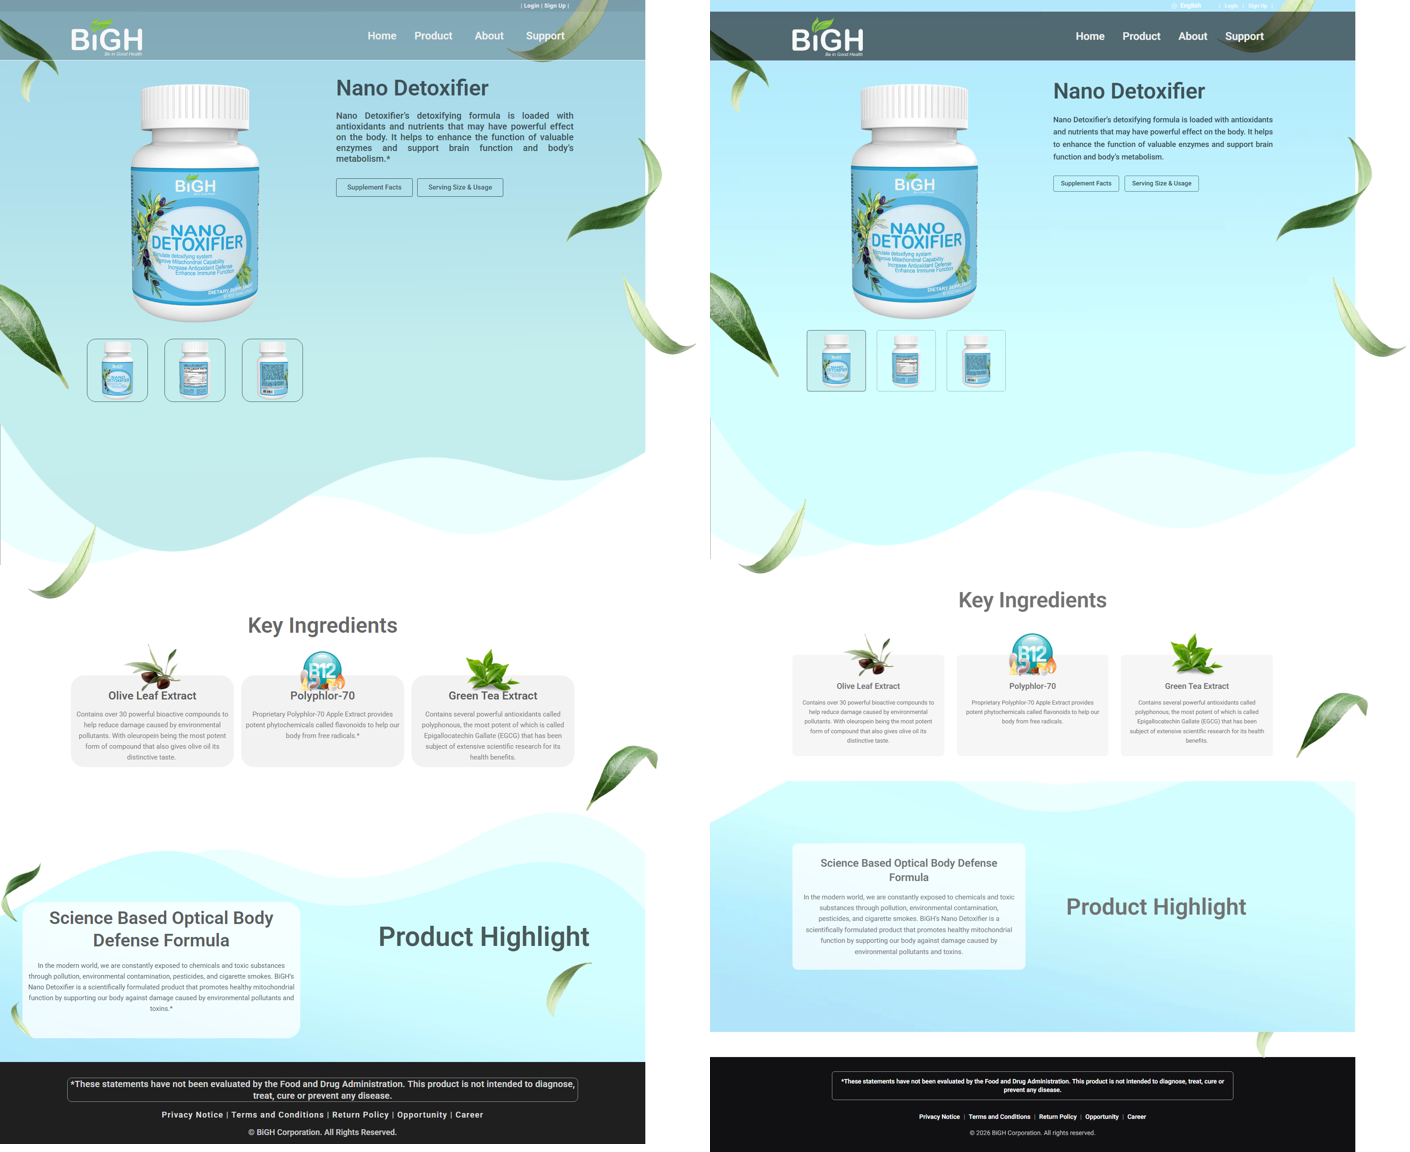
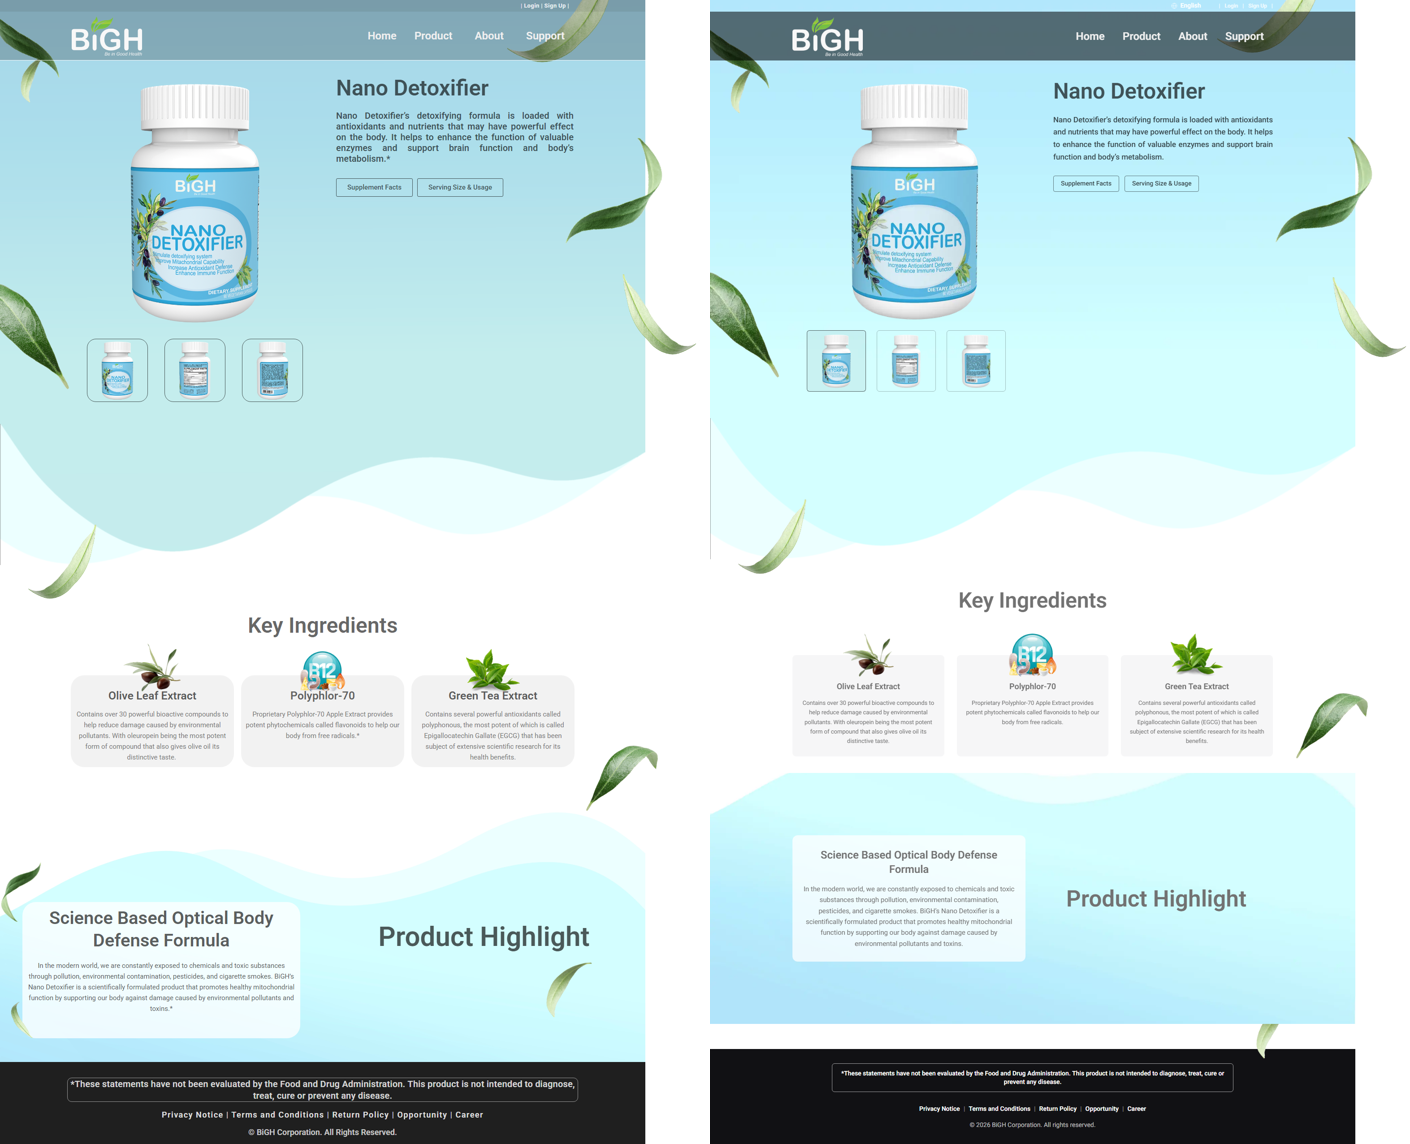
feat(clone): product pages pixel-exact (0-1px), exact nav alphas, glass dropdown
- per-product height calibration: all 10 product pages now within 0-1px of
  the original (>=99.9%)
- navbar alphas set to the measured original values: microbar fully
  transparent, main row rgba(0,0,0,0.54)
- dropdown redesigned (Mo's enhancement ask): glass panel w/ rise-in
  animation, two-column Product menu with bottle thumbnails, green accents

Claude-Session: https://claude.ai/code/session_01RzRMziC5GY7AzV6VWdUSyy

diff --git a/src/components/clone/header.tsx b/src/components/clone/header.tsx
@@ -7,21 +7,33 @@ import { useEffect, useRef, useState } from "react";
 import { Link, usePathname } from "@/i18n/navigation";
 import type { Locale } from "@/i18n/routing";
 import { ABOUT_SLUGS, PRODUCT_SLUGS, productName } from "@/data/products";
+import productLayout from "@/data/product-layout.json";
 
 import { LangSwitcher } from "./lang-switcher";
 
 const LOGIN_URL = "https://aeg.imatrixoffice.com";
 
+const THUMBS = Object.fromEntries(
+  Object.entries(productLayout as Record<string, { gallery: string[] }>).map(([slug, v]) => [
+    slug,
+    v.gallery[0],
+  ]),
+);
+
 // Measured from the original (1440px): header floats transparently over the
 // page — 26px microbar + 109px main row; logo 157x88 at the content edge;
 // nav items Roboto 600 24px with 13x20 padding; FOUR top-level items
 // (Science lives in the About dropdown). Mobile: 185px row w/ 292px logo.
+// The dropdown itself is deliberately nicer than the original: glassy panel,
+// soft rise-in animation, bottle thumbnails in the Product menu.
 function Dropdown({
   label,
   items,
+  wide = false,
 }: {
   label: string;
-  items: { href: string; label: string }[];
+  items: { href: string; label: string; thumb?: string }[];
+  wide?: boolean;
 }) {
   const [open, setOpen] = useState(false);
   const ref = useRef<HTMLDivElement>(null);
@@ -44,29 +56,53 @@ function Dropdown({
     >
       <button
         type="button"
-        className="flex items-center gap-1 rounded-[5px] px-5 py-[13px] text-2xl font-semibold leading-none text-[#efefef] transition-colors hover:bg-green hover:text-white"
+        className={`flex items-center gap-1 rounded-[5px] px-5 py-[13px] text-2xl font-semibold leading-none transition-colors ${
+          open ? "bg-green text-white" : "text-[#efefef] hover:bg-green hover:text-white"
+        }`}
         aria-expanded={open}
         onClick={() => setOpen((v) => !v)}
       >
         {label}
       </button>
-      {open && (
-        <div className="absolute left-1/2 top-full z-50 w-72 -translate-x-1/2 pt-1">
-          <ul className="rounded-md border border-white/10 bg-[#1d1d25]/95 p-2 shadow-[0_16px_40px_rgba(0,0,0,0.4)] backdrop-blur">
-            {items.map((item) => (
-              <li key={item.href}>
-                <Link
-                  href={item.href}
-                  className="block rounded px-3 py-2 text-lg text-white/85 hover:bg-green hover:text-white"
-                  onClick={() => setOpen(false)}
-                >
+      <div
+        className={`absolute left-1/2 top-full z-50 -translate-x-1/2 pt-2 transition-all duration-200 ease-out ${
+          open
+            ? "visible translate-y-0 opacity-100"
+            : "invisible -translate-y-1.5 opacity-0"
+        } ${wide ? "w-[34rem]" : "w-72"}`}
+      >
+        <ul
+          className={`overflow-hidden rounded-xl border border-white/10 bg-[#15151c]/90 p-2.5 shadow-[0_24px_60px_rgba(0,0,0,0.55)] backdrop-blur-xl ${
+            wide ? "grid grid-cols-2 gap-x-2" : ""
+          }`}
+        >
+          {items.map((item) => (
+            <li key={item.href}>
+              <Link
+                href={item.href}
+                className="group/item flex items-center gap-3 rounded-lg px-3 py-2 text-white/85 transition-colors hover:bg-white/[0.07] hover:text-green"
+                onClick={() => setOpen(false)}
+                tabIndex={open ? 0 : -1}
+              >
+                {item.thumb && (
+                  <span className="flex h-11 w-11 shrink-0 items-center justify-center rounded-md bg-white/90 p-1">
+                    <Image
+                      src={item.thumb}
+                      alt=""
+                      width={40}
+                      height={42}
+                      className="h-full w-auto object-contain transition-transform duration-300 group-hover/item:scale-110"
+                    />
+                  </span>
+                )}
+                <span className={item.thumb ? "text-base font-medium leading-tight" : "text-lg"}>
                   {item.label}
-                </Link>
-              </li>
-            ))}
-          </ul>
-        </div>
-      )}
+                </span>
+              </Link>
+            </li>
+          ))}
+        </ul>
+      </div>
     </div>
   );
 }
@@ -80,6 +116,7 @@ export function SiteHeader() {
   const productItems = PRODUCT_SLUGS.map((slug) => ({
     href: `/${slug}`,
     label: productName(slug, locale),
+    thumb: THUMBS[slug],
   }));
   const aboutLabels: Record<(typeof ABOUT_SLUGS)[number], string> = {
     about: t("aboutBigh"),
@@ -112,7 +149,7 @@ export function SiteHeader() {
       </div>
 
       {/* main row: 109px desktop / 185px mobile, translucent black */}
-      <div className="bg-black/55">
+      <div className="bg-[rgba(0,0,0,0.54)]">
         <div className="mx-auto flex max-w-[70rem] items-center justify-between gap-4 px-2.5 py-[10px] sm:px-6 lg:h-[109px] lg:py-0">
           <Link href="/" className="flex shrink-0 items-center" aria-label="BiGH — Home">
             <Image
@@ -134,7 +171,7 @@ export function SiteHeader() {
             >
               {t("home")}
             </Link>
-            <Dropdown label={t("products")} items={productItems} />
+            <Dropdown label={t("products")} items={productItems} wide />
             <Dropdown label={t("about")} items={aboutItems} />
             <Link
               href="/support"

diff --git a/src/app/[locale]/[slug]/page.tsx b/src/app/[locale]/[slug]/page.tsx
@@ -55,6 +55,22 @@ function decorBase(p: string): string {
   return p.split("/").pop()!.replace(/-\d+x\d+(?=\.)/, "");
 }
 
+// Residual page-height calibration vs the measured original (px). Applied to
+// the white-content top padding and band top margin so every product page
+// lands within 1% of the original's total height.
+const HEIGHT_ADJUST: Record<string, number> = {
+  nuricell: -68,
+  "deer-horn-reishi": -52,
+  turmerific: -28,
+  "nano-detoxifier": -19,
+  "heart-q10": -20,
+  "advanced-opc-formula": -34,
+  "green-bee-propolis": 32,
+  "nature-calm": -53,
+  "super-green": -39,
+  "uber-calcium": -20,
+};
+
 export function generateStaticParams() {
   return routing.locales.flatMap((locale) =>
     listSlugs(locale).map((slug) => ({ locale, slug })),
@@ -148,6 +164,16 @@ function ProductPage({
     (d) => !usedBases.has(decorBase(d.img)) && !/dividershape/i.test(d.img),
   );
   const bodyDecor = decor.body.filter((d) => !usedBases.has(decorBase(d.img)));
+
+  // split the height calibration between the white-content top padding (base
+  // 53px) and the band's top margin (base 56px)
+  const adjust = HEIGHT_ADJUST[slug] ?? 0;
+  let bandMt = 56 + adjust;
+  let wrapPt = 53;
+  if (bandMt < 0) {
+    wrapPt = Math.max(0, wrapPt + bandMt);
+    bandMt = 0;
+  }
 
   return (
     <article>
@@ -252,7 +278,10 @@ function ProductPage({
             </ScrollDrift>
           </div>
         ))}
-      <div className="relative z-10 mx-auto max-w-[70rem] px-4 pt-[3.3rem] sm:px-6">
+      <div
+        className="relative z-10 mx-auto max-w-[70rem] px-4 sm:px-6"
+        style={{ paddingTop: `${wrapPt}px` }}
+      >
         {cardSections.map((sec) => (
           <section key={sec.title}>
             {sec.title && (
@@ -325,7 +354,7 @@ function ProductPage({
 
       {/* themed band: remaining prose sections over the product's band art */}
       {proseSections.length > 0 && (
-        <section className="relative mt-14 overflow-hidden">
+        <section className="relative overflow-hidden" style={{ marginTop: `${bandMt}px` }}>
           {layout.bandBg && (
             <Image src={layout.bandBg} alt="" fill className="object-cover" sizes="100vw" />
           )}
